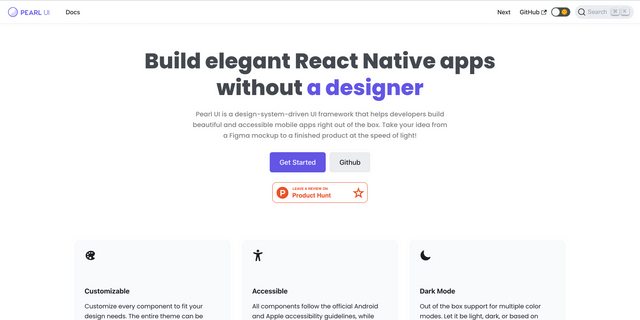
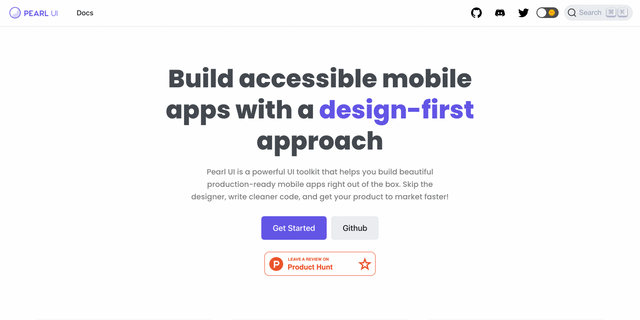
docs: remove GraphQL mesh from showcase (#6293)
* docs: remove GraphQL mesh from showcase

* mark as unavailable

diff --git a/website/src/data/users.tsx b/website/src/data/users.tsx
@@ -644,14 +644,6 @@ const Users: User[] = [
     tags: ['opensource', 'design', 'product'],
   },
   {
-    title: 'GraphQL Mesh',
-    description: 'Query anything, run everywhere',
-    preview: require('./showcase/graphql-mesh.png'),
-    website: 'https://graphql-mesh.com',
-    source: 'https://github.com/urigo/graphql-mesh',
-    tags: ['opensource'],
-  },
-  {
     title: 'GTFS-to-HTML',
     description: 'Generate human-readable HTML timetables from GTFS',
     preview: require('./showcase/gtfs-to-html.png'),
@@ -969,6 +961,7 @@ const Users: User[] = [
     source: 'https://github.com/miroiu/nodify',
     tags: ['opensource', 'design'],
   },
+  // TODO site unavailable on 01/08/2022
   {
     title: 'OCPeasy',
     description:
@@ -1024,7 +1017,7 @@ const Users: User[] = [
     description:
       'A design-system-driven UI framework that helps developer build beautiful and accessible mobile apps right out of the box',
     preview: require('./showcase/pearl-ui.png'),
-    website: 'https://www.pearl-ui.dev/',
+    website: 'https://docs.pearl-ui.dev/',
     source: 'https://github.com/agrawal-rohit/pearl-ui',
     tags: ['opensource', 'design', 'product'],
   },